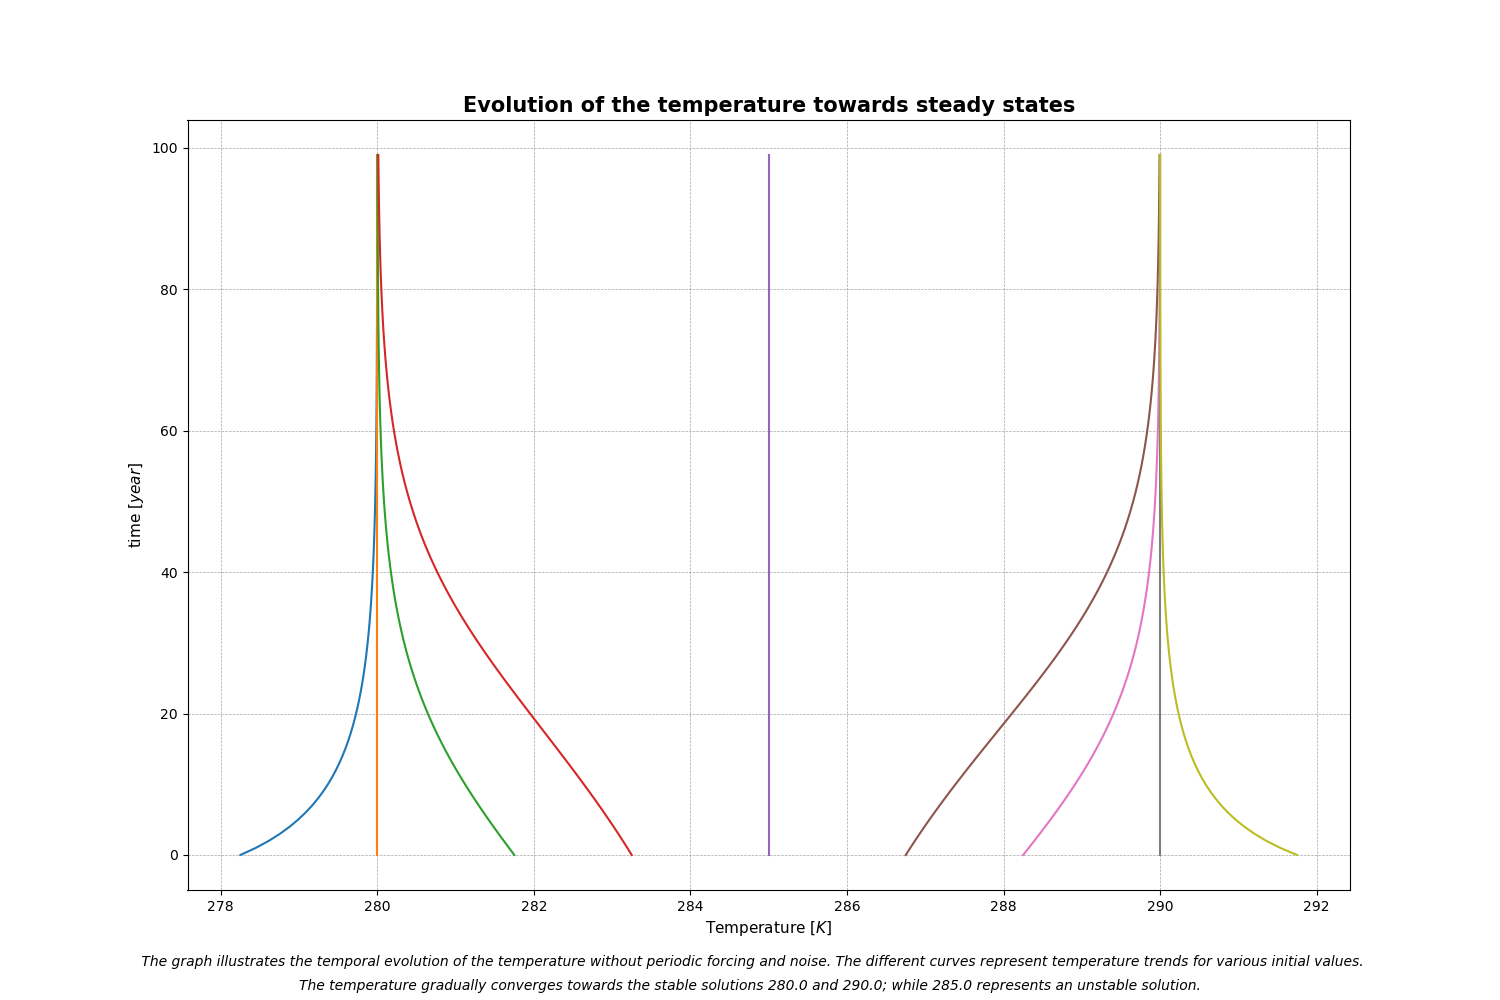
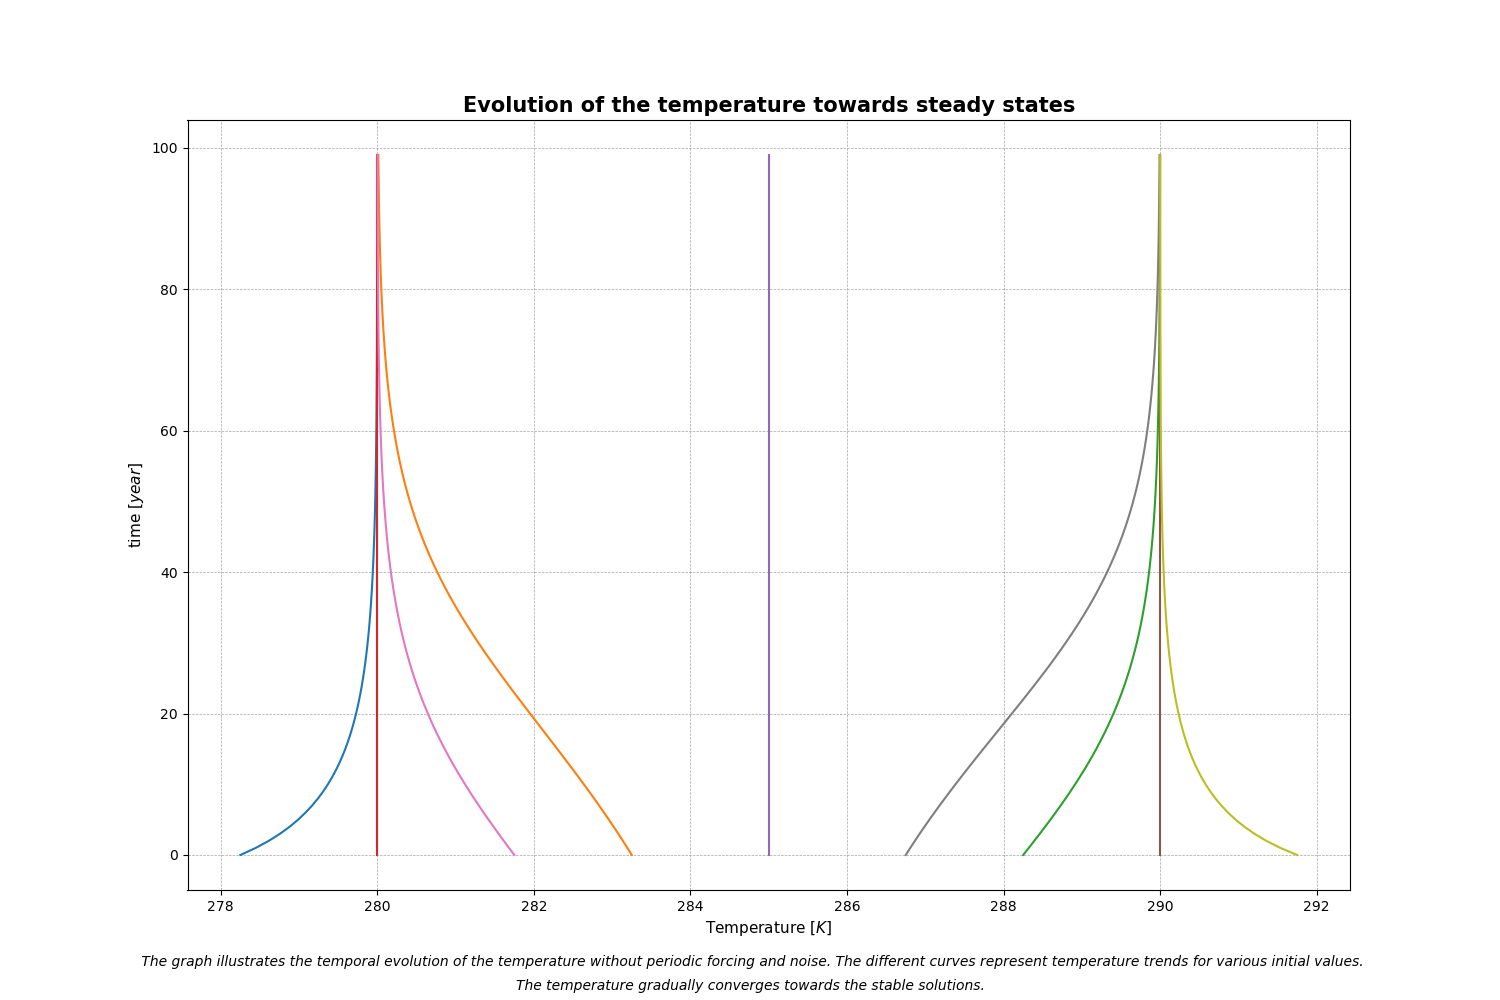
Refactored 'evolution_towards_steady_states_plot()' function in 'plots.py' module
In this commit, I have refactored the 'evolution_towards_steady_states_plot()' function within the 'plots.py' module.
This function is responsible for generating the 'evolution_of_temperatures_towards_steady_states.png' plot.

Previously, the function handled both the calculation of plotted quantities and their visualization using the 'simulate_ito' function from 'stochastic_resonance.py'.
However, I have restructured the code to improve separation of concerns.

Key changes include:
- The code responsible for calculating the plotted quantities has been relocated to a new function, 'calculate_evolution_towards_steady_states()', contained in 'stochastic_resonance.py'.
- The 'calculate_evolution_towards_steady_states()' function is called from within the 'simulation.py' module, which saves the data in two '.npy' files.
- The 'evolution_towards_steady_states_plot()' function now solely focuses on creating the plot, enhancing code organization.

Additionally, I made minor changes, such as renaming the variables T1, T2, and T3 in 'simulation.py' to 'stable_solution_1', 'unstable_solution', and 'stable_solution_2', respectively.
I also introduced the list 'temperature_solutions' containing the three temperatures.

Furthermore, I simplified the definition of 'T_start' within the 'calculate_evolution_towards_steady_states()' function by replacing a series of explicit values with a 'for' loop.
[…]

diff --git a/simulation.py b/simulation.py
@@ -11,9 +11,11 @@ import aesthetics as aes
 config = configparser.ConfigParser()
 config.read('configuration.txt')
 
-T1 = config['settings'].getfloat('T1')
-T2 = config['settings'].getfloat('T2')
-T3 = config['settings'].getfloat('T3')
+stable_solution_1 = config['settings'].getfloat('T1')
+unstable_solution = config['settings'].getfloat('T2')
+stable_solution_2 = config['settings'].getfloat('T3')
+
+temperature_solutions = [stable_solution_1, unstable_solution, stable_solution_2]
 
 C_j_per_m2_K = config['settings'].getfloat('C')
 tau = config['settings'].getfloat('tau')
@@ -38,6 +40,8 @@ os.makedirs('data', exist_ok = True)
 models_comparison_temperatures_destination = config['paths'].get('models_comparison_temperatures_destination')
 emitted_radiation_values_destination = config['paths'].get('emitted_radiation_values_destination')
 F_values_destination = config['paths'].get('F_values_destination')
+evolution_towards_steady_states_time_destination = config['paths'].get('evolution_towards_steady_states_time_destination')
+evolution_towards_steady_states_temperature_destination = config['paths'].get('evolution_towards_steady_states_temperature_destination')
 
 time_destination = config['paths'].get('simulated_time')
 temperature_destination = config['paths'].get('simulated_temperature')
@@ -48,24 +52,31 @@ PSD_destination = config['paths'].get('simulated_PSD')
 peak_height_destination = config['paths'].get('simulated_peak_height')
 
 
-V = np.linspace(variance_start, variance_end, num_variances)
+#------Generation of data for the emission models comparison----------------------------------
 
-#----------------------------------------------------------------------
-
-models_comparison_temperatures, emitted_radiation_values, F_values = stochastic_resonance.emission_models_comparison(T1, T2, T3)
+models_comparison_temperatures, emitted_radiation_values, F_values = stochastic_resonance.emission_models_comparison(*temperature_solutions)
 
 np.save(models_comparison_temperatures_destination, models_comparison_temperatures)
 np.save(emitted_radiation_values_destination, emitted_radiation_values)
 np.save(F_values_destination, F_values)
 
+#----Generation of data for showing the evolution of temperature towards steady states----------
+
+evolution_towards_steady_states_time, evolution_towards_steady_states_temperature = stochastic_resonance.calculate_evolution_towards_steady_states(temperature_solutions)
+
+np.save(evolution_towards_steady_states_time_destination, evolution_towards_steady_states_time)
+np.save(evolution_towards_steady_states_temperature_destination, evolution_towards_steady_states_temperature)
+
 #-----------------------------------------------------------------------
+
+V = np.linspace(variance_start, variance_end, num_variances)
 
 Time = np.zeros((len(V), num_steps))
 Temperature = np.zeros((len(V), num_simulations, num_steps))
 
 for i, v in enumerate(V):
     print('\nSimulating the temperature evolution:  {0} of {1}  '.format((i+1), len(V)))
-    time, simulated_temperature = stochastic_resonance.simulate_ito(T_start = T3, t_start = 0,
+    time, simulated_temperature = stochastic_resonance.simulate_ito(T_start = stable_solution_2, t_start = 0,
 					       			    noise_variance = v)
     Temperature[i, :, :] = simulated_temperature
     Time[i, :] = time

diff --git a/plots.py b/plots.py
@@ -5,13 +5,14 @@ import os
 import stochastic_resonance
 import configparser
 
-
 config = configparser.ConfigParser()
 config.read('configuration.txt')
 
 models_comparison_temperatures_path = config['paths'].get('models_comparison_temperatures_destination')
 emitted_radiation_values_path = config['paths'].get('emitted_radiation_values_destination')
 F_values_path = config['paths'].get('F_values_destination')
+evolution_towards_steady_states_time_path = config['paths'].get('evolution_towards_steady_states_time_destination')
+evolution_towards_steady_states_temperature_path = config['paths'].get('evolution_towards_steady_states_temperature_destination')
 
 peak_height_data = config['paths'].get('simulated_peak_height')
 
@@ -77,19 +78,9 @@ def evolution_towards_steady_states_plot():
     """
     This function plots the evolution of the temperature towards the steady states
     """
-    stable_solution_1 = config['settings'].getfloat('T1')
-    unstable_solution = config['settings'].getfloat('T2')
-    stable_solution_2 = config['settings'].getfloat('T3')
-    epsilon = 1.75
+    time = np.load(evolution_towards_steady_states_time_path)
+    simulated_temperature = np.load(evolution_towards_steady_states_temperature_path)
 
-    T_start = np.array([stable_solution_1-epsilon, stable_solution_1, stable_solution_1+epsilon,
-			unstable_solution-epsilon, unstable_solution, unstable_solution+epsilon,
-			stable_solution_2-epsilon, stable_solution_2, stable_solution_2+epsilon])
-    t_start = 0
-
-    time, simulated_temperature = stochastic_resonance.simulate_ito(T_start, t_start,
-								    num_steps = 100, num_simulations = len(T_start),
-								    noise = False, forcing = 'constant')
     f = plt.figure(figsize=(15, 10))
     for i in range(len(simulated_temperature)):
         plt.plot(simulated_temperature[i], time)
@@ -97,11 +88,10 @@ def evolution_towards_steady_states_plot():
     plt.grid(True, linestyle = '--', linewidth = 0.5, color = 'gray', alpha = 0.7)
     plt.xlabel(r'Temperature $\left[ K \right]$', fontsize=11)
     plt.ylabel(r'time $\left[ year \right] $', fontsize = 11)
-    #plt.legend()
     plt.title('Evolution of the temperature towards steady states', fontsize = 15, fontweight = 'bold')
 
     caption = f""" The graph illustrates the temporal evolution of the temperature without periodic forcing and noise. The different curves represent temperature trends for various initial values.
-              \nThe temperature gradually converges towards the stable solutions {stable_solution_1} and {stable_solution_2}; while {unstable_solution} represents an unstable solution."""
+              \nThe temperature gradually converges towards the stable solutions."""
 
     plt.figtext(0.5, 0.01, caption, horizontalalignment = 'center', fontsize = 10, linespacing = 0.8, style = 'italic')
 

diff --git a/stochastic_resonance.py b/stochastic_resonance.py
@@ -129,6 +129,15 @@ def simulate_ito(T_start, t_start,
 
     return t, T
 
+def calculate_evolution_towards_steady_states(temperatures):
+    epsilon = 1.75
+    T_start = np.array([temp - epsilon for temp in temperatures] + temperatures + [temp + epsilon for temp in temperatures])
+    t_start = 0
+
+    time, temperature = simulate_ito(T_start, t_start, num_steps = 100, num_simulations = len(T_start), noise = False, forcing = 'constant')
+
+    return time, temperature
+
 def find_peak_indices(frequencies, period):
     """
     This function returns the indices of the theoretically predicted peaks.
